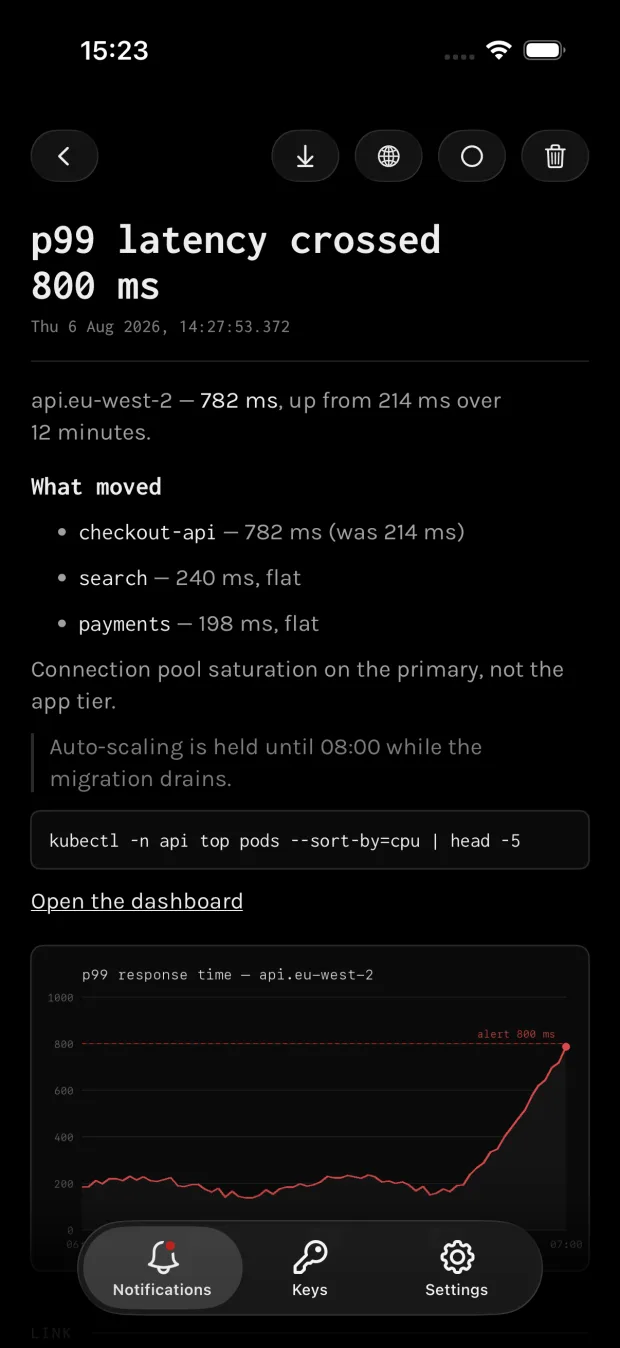
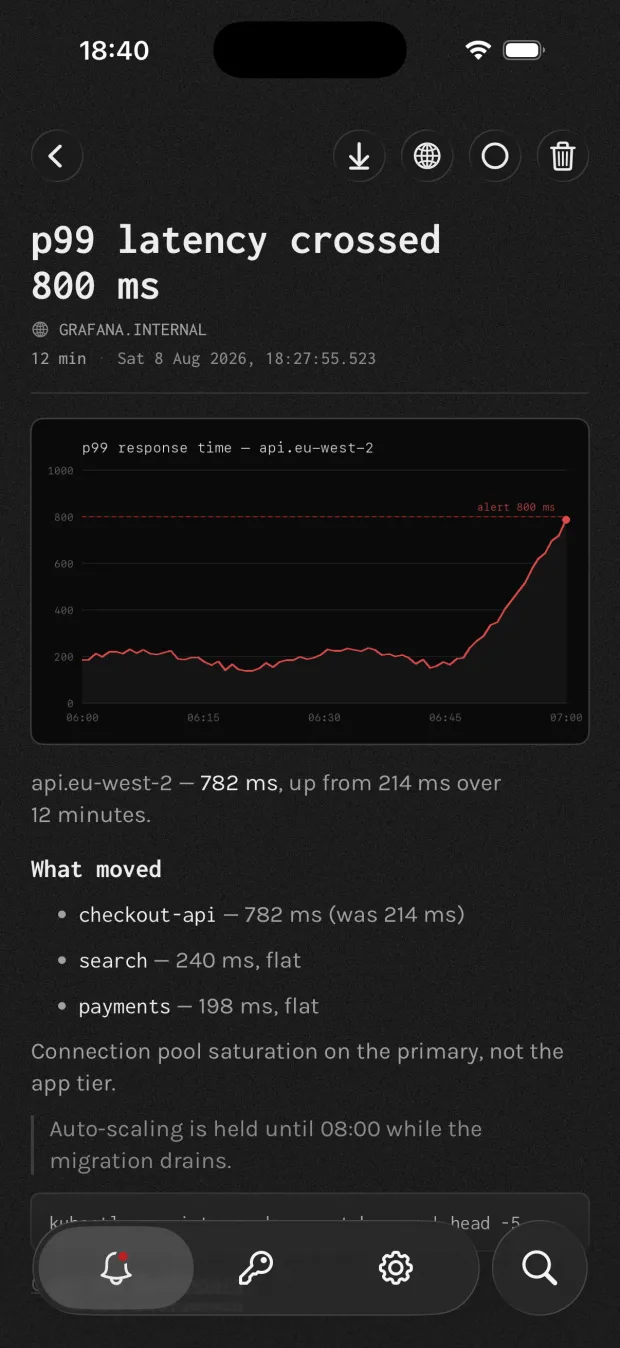
Retake the site's four iOS screenshots from the current app (#83)
* Retake the site's four iOS screenshots from the current app

The shots on the marketing page predated the icon tab bar, the Today and
Yesterday bands, and the dark/light ground setting, so the page was
selling an app that no longer looks like that. Recaptured all four from
a seeded Simulator run in dark mode, and reworded the alt text to
describe what the images now show.

* Hang the Mac popover from a drawn menu bar in the Download section

Same construction as transferme.it's figure: the bar is HTML, so it
carries no real desktop, and the bell sits at its centre because the
popover's arrow in the screenshot below is centred too. The capture is
the real popover window, seeded, with the urgent row showing red.

* Regenerate the string catalog main forgot

check-copy has been red since #89 landed with new keys but stale
generated files; make gen-copy writes what the check expects.

---------

diff --git a/apps/api/public/index.html b/apps/api/public/index.html
@@ -357,6 +357,24 @@ header .bell::before{transform-origin:50% 8%;animation:ring 1.1s ease-in-out .25
   .shots{grid-template-columns:repeat(2,1fr)}
 }
 
+/* ── the Mac, hanging from its menu bar ─────────────────────── */
+/* Same construction as the iOS shots — hairline border, surface ground — but
+   the popover is shown attached to the thing that anchors it. The bar is drawn
+   in HTML rather than captured, so it carries no real desktop; the bell sits
+   dead centre because the popover's arrow is at the centre of the screenshot
+   below it, and the two must line up or the figure reads as broken. */
+.mac{margin:34px 0 0;max-width:520px}
+.mac-desk{border:1px solid var(--line);border-radius:12px;background:var(--surface);overflow:hidden}
+.mac-bar{
+  position:relative;display:flex;align-items:center;justify-content:flex-end;
+  gap:13px;height:36px;padding:0 16px;border-bottom:1px solid var(--line);
+}
+.mac-bar .bell{position:absolute;left:50%;transform:translateX(-50%);color:var(--fg)}
+.mac-ico{width:15px;height:15px;color:var(--dim)}
+.mac-clock{font-family:var(--mono);font-size:11px;color:var(--dim);font-variant-numeric:tabular-nums}
+.mac-shot{display:block;width:min(460px,94%);height:auto;margin:0 auto}
+.mac figcaption{font-family:var(--mono);font-size:12px;color:var(--dim);margin-top:10px}
+
 /* ── language tabs ──────────────────────────────────────────── */
 .tabs{display:flex;flex-wrap:wrap;gap:6px;margin-bottom:14px}
 .tab{
@@ -598,7 +616,7 @@ footer{border-top:1px solid var(--line);padding:40px 0 56px}
     <div class="shots">
       <div class="shot"><figure>
         <img src="/screens/notifications.webp" width="620" height="1348" loading="lazy"
-             alt="The notifi inbox: a black list of alerts, unread ones marked with a red dot, each showing an exact time above a relative one.">
+             alt="The notifi inbox: a black list of alerts grouped under Today and Yesterday, unread ones showing their age in red.">
         <figcaption>Inbox</figcaption>
       </figure></div>
       <div class="shot"><figure>
@@ -608,12 +626,12 @@ footer{border-top:1px solid var(--line);padding:40px 0 56px}
       </figure></div>
       <div class="shot"><figure>
         <img src="/screens/keys.webp" width="620" height="1348" loading="lazy"
-             alt="The keys screen listing active and revoked send keys with their send counts.">
+             alt="The keys screen: the default key plus one key per source — Grafana alerts, Deploy bot, Front door camera — each with its send count.">
         <figcaption>Keys</figcaption>
       </figure></div>
       <div class="shot"><figure>
         <img src="/screens/settings.webp" width="620" height="1348" loading="lazy"
-             alt="Settings: notification permission, unread badge toggle, and a test send.">
+             alt="Settings: notification permission, a dark or light ground, automatic image loading, and a test send.">
         <figcaption>Settings</figcaption>
       </figure></div>
     </div>
@@ -1071,6 +1089,29 @@ reqwest::Client::new()
       </a>
       <p class="meta">The Mac build updates itself.</p>
     </div>
+
+    <figure class="mac">
+      <div class="mac-desk">
+        <div class="mac-bar" aria-hidden="true">
+          <span class="bell" style="--bell:15px"></span>
+          <svg class="mac-ico" viewBox="0 0 24 24" fill="none" stroke="currentColor"
+               stroke-width="1.7" stroke-linecap="round" stroke-linejoin="round">
+            <path d="M4 9.5a11.5 11.5 0 0 1 16 0"/><path d="M6.8 12.8a7.5 7.5 0 0 1 10.4 0"/>
+            <path d="M9.6 16a3.6 3.6 0 0 1 4.8 0"/><path d="M12 18.8h.01"/>
+          </svg>
+          <svg class="mac-ico" viewBox="0 0 24 24" fill="none" stroke="currentColor"
+               stroke-width="1.7" stroke-linecap="round" stroke-linejoin="round">
+            <rect x="2.5" y="8" width="16" height="8" rx="2.4"/>
+            <rect x="4.4" y="9.9" width="9" height="4.2" rx="1" fill="currentColor" stroke="none"/>
+            <path d="M20.5 10.8v2.4"/>
+          </svg>
+          <span class="mac-clock">18:41</span>
+        </div>
+        <img class="mac-shot" src="/screens/mac.webp" width="840" height="1296" loading="lazy"
+             alt="The same inbox hanging from the Mac menu bar: the bell sits in the bar and the popover beneath it lists the day's alerts, the urgent one in red.">
+      </div>
+      <figcaption>The Mac app. No window, no Dock icon.</figcaption>
+    </figure>
   </div>
 </section>
 

diff --git a/apps/app/Shared/Support/Copy.swift b/apps/app/Shared/Support/Copy.swift
@@ -114,6 +114,7 @@ enum Copy {
         static var sectionRevoked: String { NSLocalizedString("keys.sectionRevoked", comment: "") }
         static var emptyTitle: String { NSLocalizedString("keys.emptyTitle", comment: "") }
         static var emptyDetail: String { NSLocalizedString("keys.emptyDetail", comment: "") }
+        static var footnote: String { NSLocalizedString("keys.footnote", comment: "") }
         static func sent(_ n: Int) -> String { String.localizedStringWithFormat(NSLocalizedString("keys.sent", comment: ""), n) }
         static var chipDefault: String { NSLocalizedString("keys.chipDefault", comment: "") }
         static var chipRevoked: String { NSLocalizedString("keys.chipRevoked", comment: "") }
